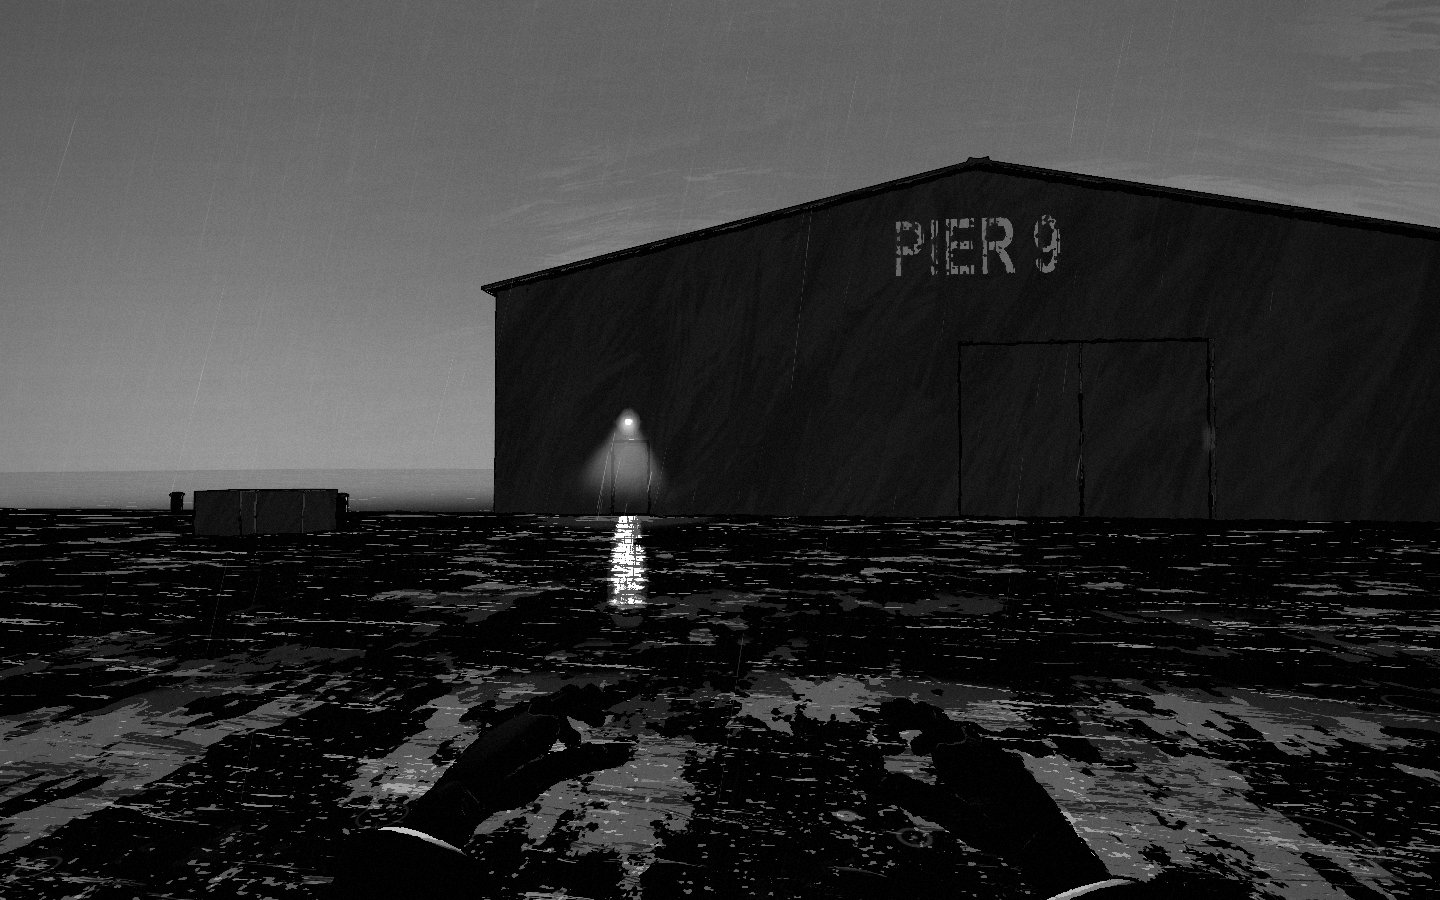
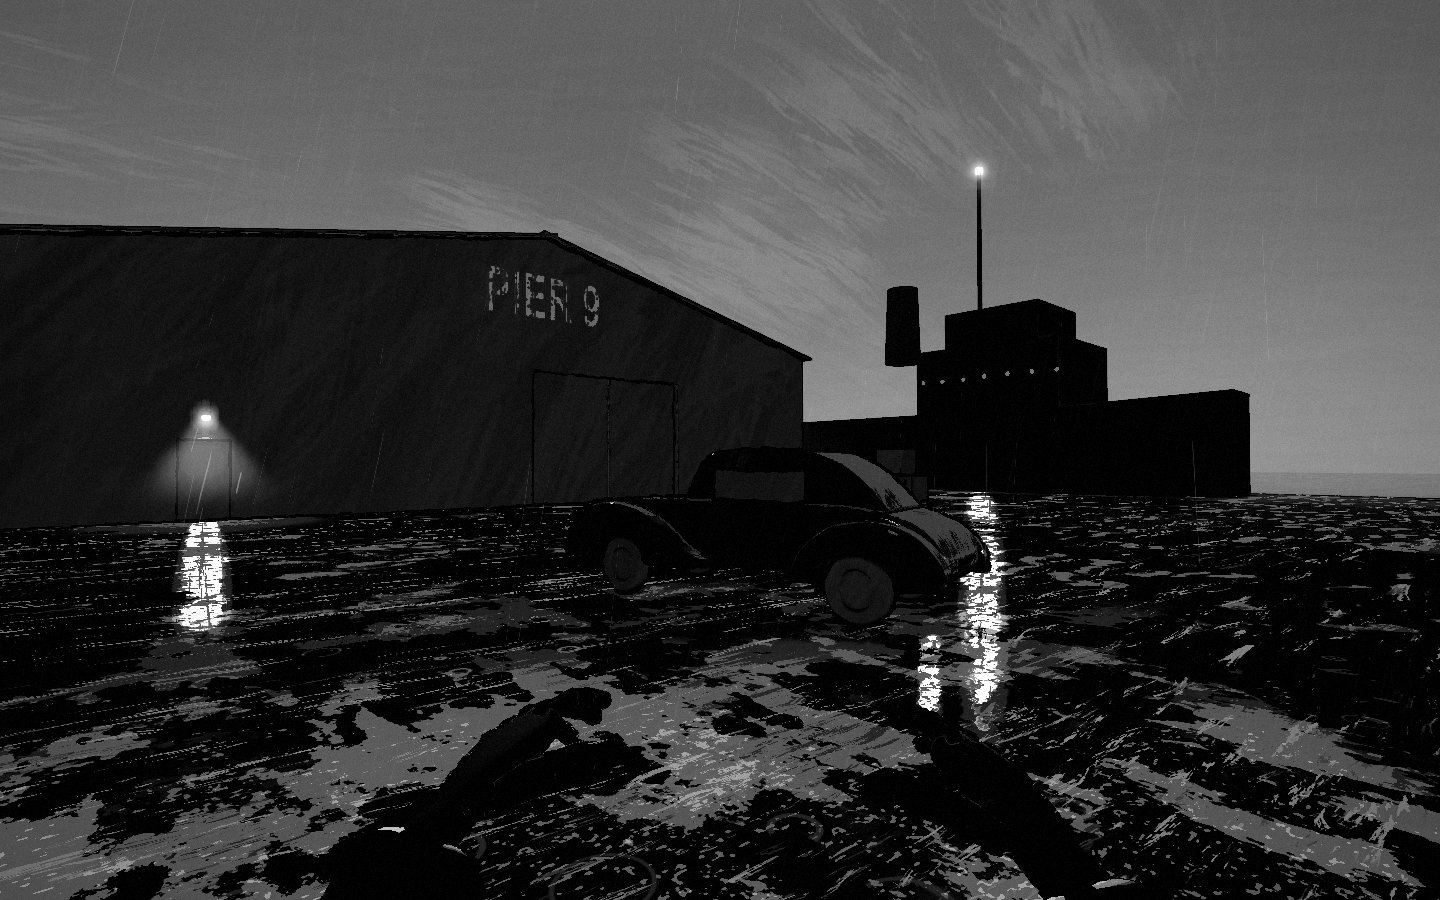
Pier 9, round 2: the report (what changed, what was measured, what is left) and the review frames and the fight's six strips; the play onto the stairs' lower half

diff --git a/docs/story/reports/wave-b/B6.md b/docs/story/reports/wave-b/B6.md
@@ -362,3 +362,189 @@ it covered a third of the view; back as it was.
     serves stale modules. I ran mine from a scratch config with the same
     per-port cache and the ignores rooted at the worktree; the integrator
     should root those ignores the same way.
+
+---------------------------------------------------------------------------
+## Round 2 (lane R2-E, branch `wave-b/R2-pier`, 2026-09-30)
+
+The brief: `docs/story/briefs/R2_ROUND2.md` R2-E - build the second fist fight
+(`docs/story/briefs/B9_PIER_FIGHT.md`) on B8's rules in this bay, use the real
+Cardinal at the window, and B6's open list. The lane was taken over three
+hours in, when the machine overloaded and every builder was stopped; the
+first owner's five commits stand (the fight grey but whole and played by real
+input; the jacket over the barrel, the lid a shield; the first frame with my
+car and the freighter, a torch for the Hood at the stairs, the fight's
+sounds, the chain in the fist; the reel's lane clear of the post). Nothing
+was left uncommitted but the art director's tools, committed as they were.
+
+### What plays
+
+`?start=warehouse` plays from my car to the next chapter by real input
+(`tools/plays/warehouse.json`); `?start=warehouse.fight` plays the fight and
+the way out (`tools/plays/pier_fight.json`). The scene's beats are now
+`arrive floor lamps aisle stairs listen out fight ko after`:
+
+- **out -> fight**: down the far stairs into the bay, the foreman steps out
+  of the dark by the side door, the hook turning in his hand, and lays his
+  jacket over the barrel while my hand goes to the revolver and comes away;
+  one eased move squares me up to him in the ring. No music under it (the
+  rain, the water, our feet; the lantern creaks on its nail after the post
+  is hit).
+- **the fight** (the first fight's rules, `docs/story/FIGHT.md` v4, in this
+  room as data: `src/scenes/warehouse/fight.js`): his hook swings a long arc
+  that a hop aside does not clear (back out of it, or step inside it); his
+  chop comes straight down. A jab on the hook arm in his wind-up knocks the
+  hook out of his fist. The bay's things: the hook (the most damage, one
+  use, it sticks in what is behind him), the crate lid (both hands; held up
+  with SPACE it stops one blow of his and a heavy one splits it), the chain
+  (a long reach, two swings), the lantern (knocked off its nail by the
+  second time a man hits the post, or broken on him: the oil burns on the
+  planks, a place neither of us wants to stand), bottles; the stacks' top
+  crates come down on a man driven into them.
+- **ko / after**: out on his feet by a loading door, the last hard punch puts
+  him back through its planks: the boards burst out over the river, he goes
+  over the edge and into the water, the splash; the rain comes in through
+  the hole; on my feet, E on the bay's side door, out on the pier in the
+  rain, `ctx.next()` (IX The Block).
+
+### Changed this round (as a player feels it, most felt first)
+
+1. **The finish is seen.** The rules' look after the last blow follows his
+   chest, held above -0.75 rad from where the blow was thrown: from the ring
+   the pier's edge hid the splash and the frame was the black beyond the
+   hole. Now, as the planks go, the eye comes up into the doorway's mouth
+   (0.5 m from the sill, a little up on the toes) and looks down at the
+   water, turning to where he actually went in (`PierFight.watchFall`); he
+   goes in farther out (his travel back 2.2 -> 2.8 m, `RIVER`); the crown
+   is white ink (bigger drops and white blots) on the black water with its
+   rings; afterwards the look eases back up (0.8 s) instead of snapping
+   (`backToFeet` no longer calls `setPose`). No pavement thud under the
+   splash (the rules' landing sound is skipped for a finish marked
+   `water`).
+2. **Light out over the water.** A cargo lamp on a davit at the freighter's
+   rail over the channel between her and the loading doors: its cone in the
+   rain and its light broken in dashes on the water (a glint column). It
+   is what the splash is white against and what the hole looks out on
+   (frames 13, 14; before, both were black).
+3. **The ring is drawn on white.** The bay's hanging lamp 1.7 x (its pool
+   printed one grey step, 118/255 at its heart; now paper, 246/255 median),
+   and the deck's oil stains fainter (at full strength they printed as black
+   spots through the paper). The foreman fights as a black shape on a white
+   floor (frames 11, 12; strips s6, s7).
+4. **His hook, knocked out of his fist, skitters onto the floor between us,
+   a stride before me and in my look**: knocked off to his side it lay out
+   of reach and out of sight and nobody took it. Now the bay-using player
+   takes it (8 seeds: 5 took a hook).
+5. **Harder, as the brief asks** (50-80 s): the foreman 136 -> 146. The
+   bay's things a little harder in the hand (hook 50, lid 24, lantern 16).
+6. **The burning oil is a sheet a man's shin high** (it read as a few orange
+   flecks at his feet from across the ring).
+7. **The play walks down the far stairs into the fight**: its last walk
+   point lay past where the fight's start takes the eye, and the walker
+   went on turning and walking into the first 20 s of the fight (the frames
+   w11, w12 of that run were blood on the screen). It walks onto the
+   stairs' lower half and holds W until the eye is taken.
+
+Looked at and left as they were (they read): the start (s5), the hook
+swing left by a back-step (s6), the disarm (s7), the lantern knocked off
+the post and burning (s9), the Cardinal at the window (07: lane B7's
+`cardinal`, homburg and fur collar, black on the lit wall - the scene has
+used the real kind since B7 merged), the blow from behind (the hands follow
+him down in the dark).
+
+### Measured (final code)
+
+- `npm run build`: passes (the usual chunk-size warning).
+- `python3 tools/golden.py check`: **32 of 32 identical** (31 in the full
+  run; `hoodstudy`'s capture failed there, a loaded-machine hiccup, and was
+  identical on its own re-check). No golden frame changed.
+- `tools/errors.sh`: **clean on all ten beats** (arrive, floor, lamps,
+  aisle, stairs at 3 s; listen 16; out 6; fight 8; ko 2; after 3).
+- **`tools/plays/warehouse.json`: 34 of 34, twice in a row** on the final
+  code (fights won in 99.0 s by real input with three downs, and 64.5 s),
+  never caught, no alarm, on into IX The Block.
+- **`tools/plays/pier_fight.json`: 9 of 9, twice in a row** (68.8 s, 57.9 s).
+- **The slice play** (`tools/plays/slice.json`): **27 of 27** (its old last
+  step was mended at integration).
+- **The fight by the human-paced autoplay** (`?shot=b9play&seed=<n>&style=`,
+  simulated, `window.__b9`), final numbers: `player` **10 of 10 won**, in
+  48.6, 67.4, 70.8, 53.4, 64.0, 43.2, 66.0, 54.8, 71.7, 67.5 s (8 in the
+  brief's 50-80, median 65); `mash` loses (2 of 2, 12-14 downs; 3 of 3 before
+  the hp change); `things` (takes what is in reach) 8 of 8 won, 36.6-85.0 s,
+  median 61 - a little faster than `player`, not by much (below).
+- **Frames per second** (1440 x 900, 5 s; other lanes' Chromes were running,
+  the GPU 13-66 % busy before the runs): both capped at 60 by vsync, so the
+  ratio is read from the GPU bench's frame time: the fight with the oil
+  burning (`b9duel&do=lantern` at 3.4 s) **8.4 ms**, 298 calls, 0.31 M
+  triangles; `shot=perf` 24.3 and 27.1 ms, 728-779 calls, 2.8-3.2 M
+  triangles: about **3 x lighter than perf**.
+- Timings for the music slot `warehouse`: the stealth as before (3 min 40 s
+  scripted, 5 to 8 min for a first-timer); the music stops over 2.5 s as the
+  foreman steps out and the fight is silent (50-100 s); the way out after
+  the splash about 15 s. A first-timer's whole scene: **about 6.5 to 10
+  minutes**, the music under the first 5 to 8.
+
+### Shared files (lane R2-E, all marked `[R2-E]`, the smallest additive
+changes; the first fight's goldens identical)
+
+- `src/game/Brawl.js`: a room's thing's own reach (`T.reach`, the chain); a
+  weapon knocked out of his fist (`A.drops`, `disarm()`); a thing held up as
+  a shield (`THINGS.shield`, the lid); `room.spent` / `room.onHisDrop` (what
+  a room's thing becomes); an attack path's `min` (inside the hook's arc);
+  `CLIP_OK`; no landing thud for a finish marked `water` (this round).
+- `src/cast/brawl/brain.js`: a manner's `with[weapon]` mix; `room.avoid`
+  (his feet out of the fire).
+- `src/game/Autoplay.js`: the hook's long swing read (back or in) and the
+  disarm jab.
+- `tools/play.mjs`: the real-input fight driver knows the hook's two blows.
+
+### Review (`docs/story/review/wave-b/B6/`)
+
+Refreshed: `01_pier` (the first frame: my car, the freighter's lights),
+`07_window` (the real Cardinal), `08_bay` (the bay's pool white). New:
+`11_ring_hook` (his hook drawn back, black on the white pool),
+`12_oil_fire` (the lantern's oil burning at the post's foot, from outside
+the eye), `13_splash` (from the doorway: the crown and rings on the black
+water under the cargo lamp's light), `14_the_hole` (after: the cargo lamp's
+cone in the rain through the hole). Strips (the brief's six): `s5_start`
+(he steps out of the dark, the jacket, fists up; a jump-start, so the hand
+to the coat is under the card - it shows when coming down the stairs),
+`s6_swing_back`, `s7_disarm`, `s8_lid`, `s9_lantern` (from outside the eye),
+`s10_finish` (through the planks, the look down to the splash, and up to
+the lamp over the channel).
+
+### Left (most felt first)
+
+1. **The lid in my hands.** At rest it lies flat under the palms like a
+   tray; held up as a shield the hands are at its top middle, not on its
+   sides, and it fills half the frame (strip s8). It is posed by the fight's
+   generic two-handed big-thing clips (`guardBig`, `blockBig`); a lid hold
+   of its own (the hands on its side edges, upright before the chest) is a
+   hands clip - lane R2-B's hands, or a clip in `src/player/clips/pier9.js`.
+2. **The hands at the fight's start**: the sneak set's hands (the claws)
+   change to the fists at once as the rules start (about 0.2 s, no raise
+   between); on a jump-start (`?start=warehouse.fight`) the hand to the coat
+   plays under the chapter card.
+3. **His arms fly wide when he is driven into the post or the wall** (the
+   rules' shared `br_into`, the first fight's clip; rule 5 of WAVE_B).
+4. **The bay-using player wins only a little faster** (median 61 s against
+   65): the lantern hangs at eye height on the post and is the first thing
+   in reach, and the weakest; the hook (now dropped toward me) and the lid
+   are taken less. The `things` autoplay only takes what is within 1.5 m.
+5. **My fists stay up in the frame** through his fall and the splash (the
+   rules' hands; the splash is between them).
+6. He can stand in the burning oil when the rules hold him still (his
+   steering keeps his goal out of it, not his feet while he reacts); it
+   hurts him there.
+7. "Lowering a man": the hands follow him down in the dark but do not take
+   his weight (with R2-B's hands list). The sneak hands are still claws.
+8. The glint's dashes on the water are regular up close (a knit more than a
+   swell) - the pier's `glintMaterial`.
+9. Grey between the pools: measured, the interior is black (the east wall
+   18/255 mean, the floor between pools 12/255); what reads grey is the far
+   crates in the lit haze (about 60/255). The wet ground outside is darker
+   than the block's street (mean 30 against 45/255, median 4 against 23);
+   left as it is.
+10. The real-input fight once took 99 s (three downs); the first-timer
+    length is an estimate - no human has played the fight.
+11. From before: `Controller.keepOff` ignores height; the truck's tail lamps
+    show the crew's red dimly when off.
